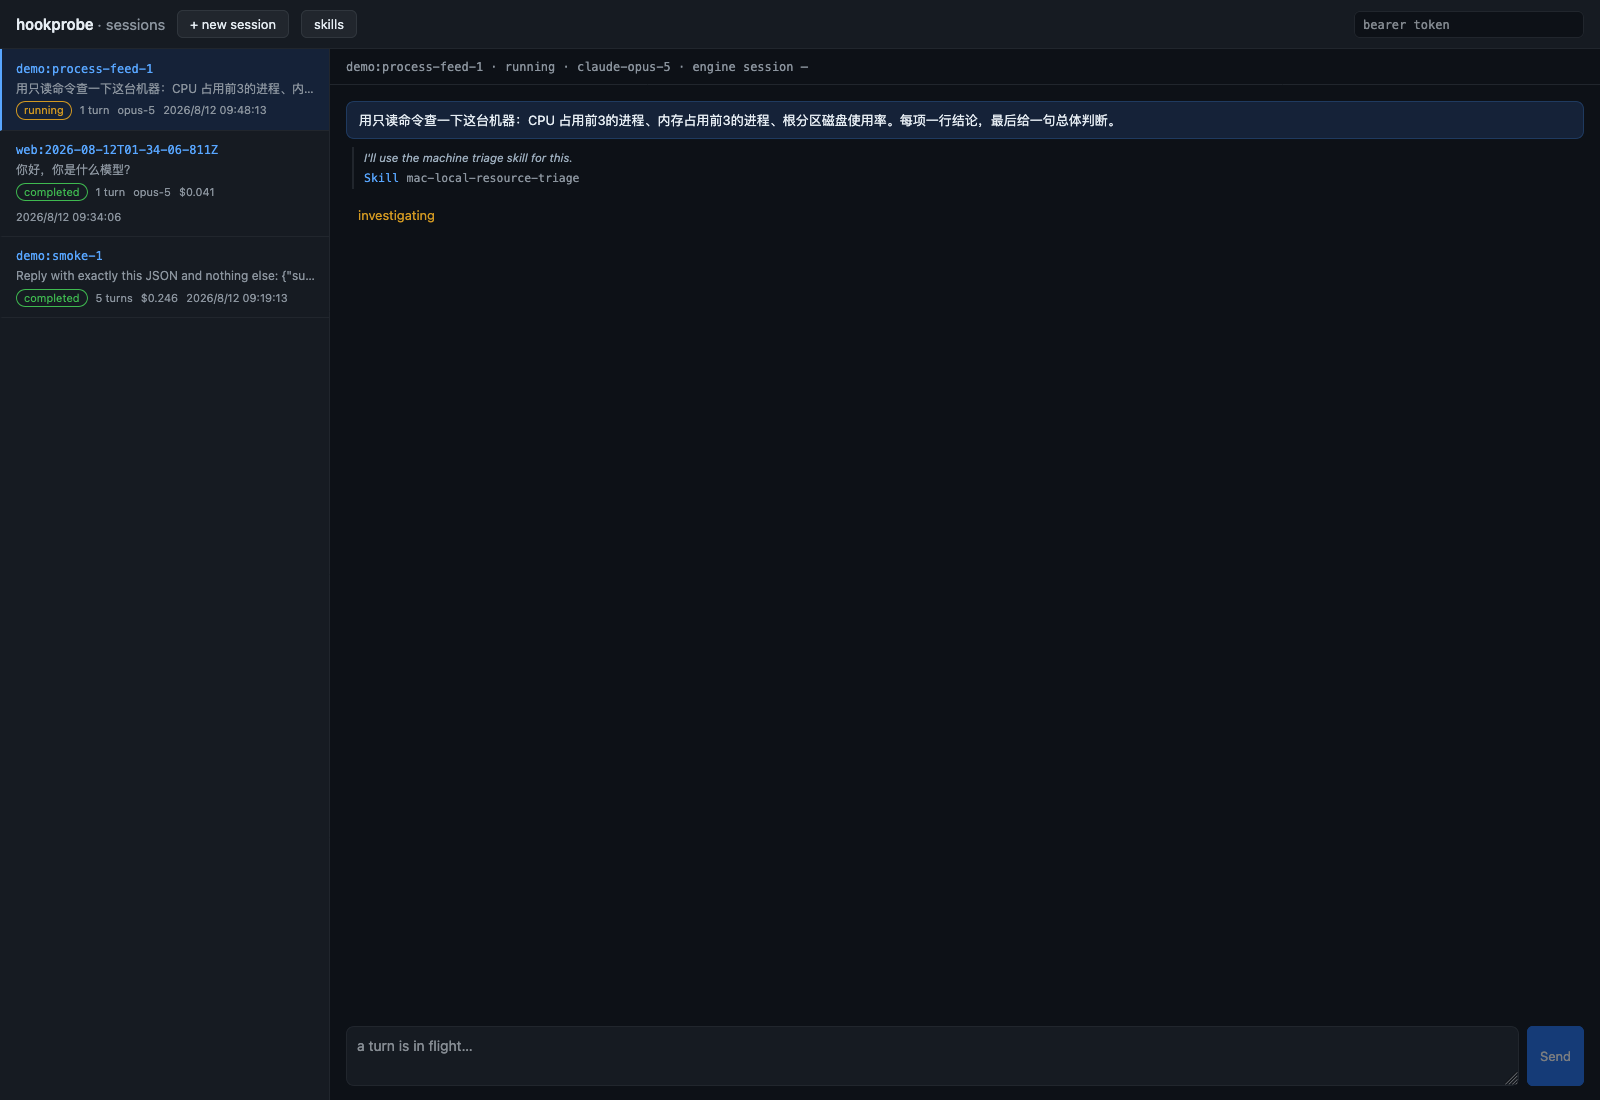
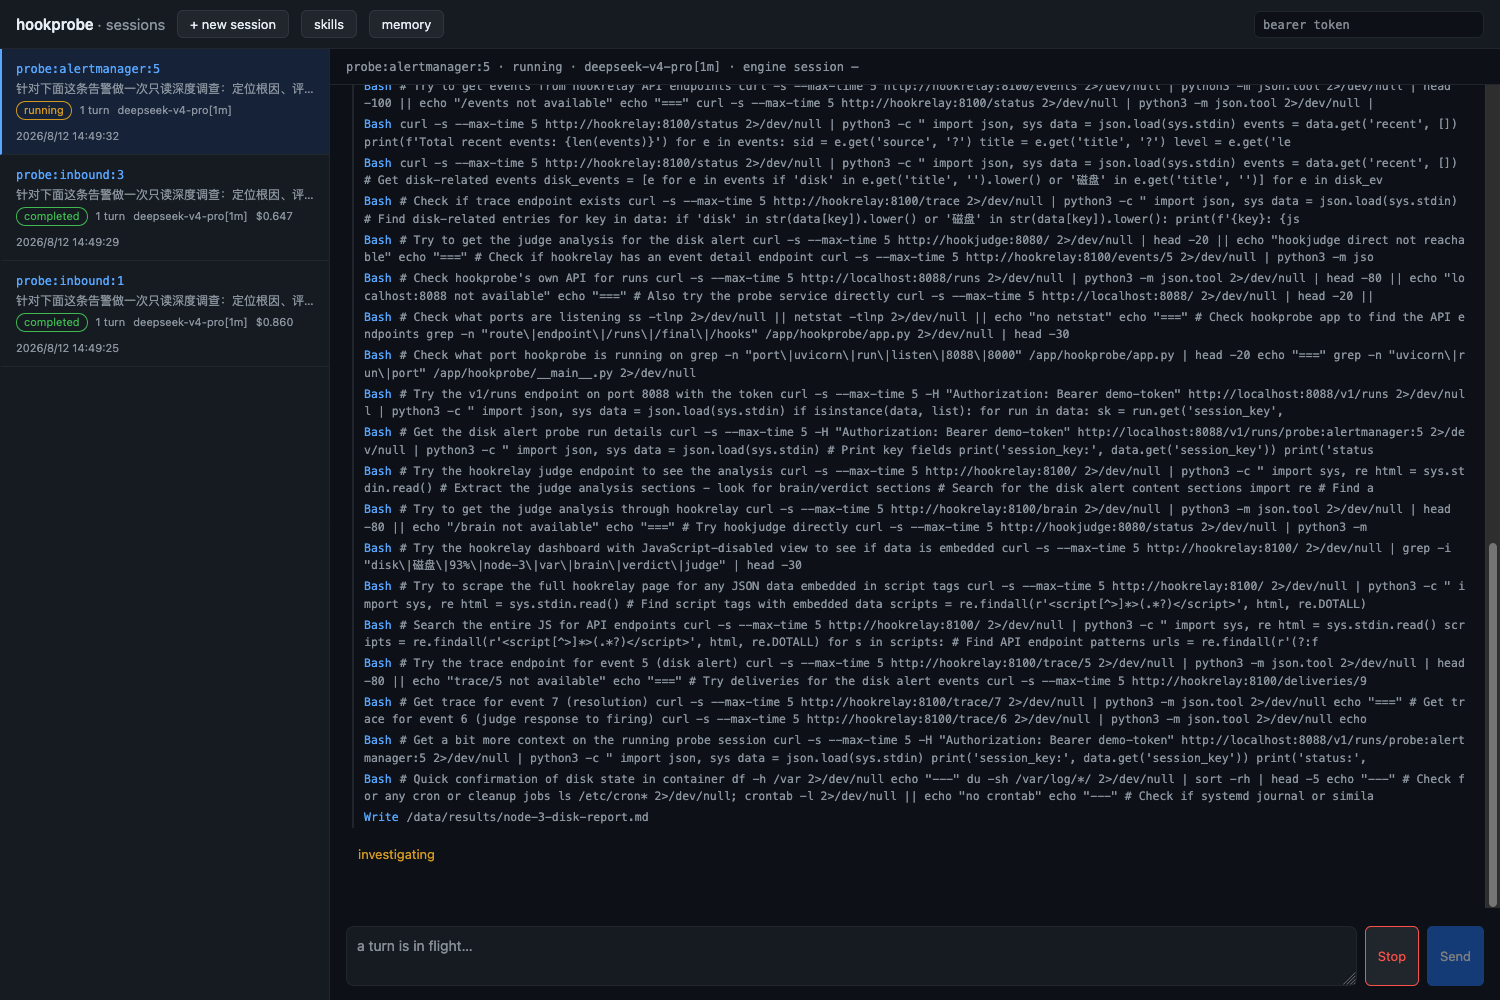
docs: reshoot every screenshot from one clean probe-enabled run
All six images now come from a single docker compose run started from
zero state (down -v first, --profile probe on): four demo alerts in,
four verdicts and three investigation reports back through the same
ledger — 24 deliveries, none queued, none dead. The probe ran against
an Anthropic-dialect endpoint (DeepSeek) to prove the engine is not
provider-locked, so both compose files gain pass-through for the
model-alias env vars; empty defaults keep the hermetic stack hermetic.

README.zh.md retells the probe story with what these captures actually
show: the disk alert overturned as a transient spike found in the
pipe's own trace, a skill distilled by a follow-up turn in the same
session, and the seeded environment memory visibly steering reports.

diff --git a/README.zh.md b/README.zh.md
@@ -2,7 +2,7 @@
 
 一组围绕"告警怎么被处理"生长出来的小服务。家族的分工哲学是一件事一个组件：**hookrelay** 是管道，把各家监控的方言适配进来、把结果按各渠道的格式送出去；**hookjudge** 是判官，一条事件、一个裁决、一笔账；**hookprobe** 是调查员，对值得深挖的告警做一次带工具的只读 agent 调查。三个服务同住本仓库，各自完全独立（自己的包、测试、gate、Dockerfile、CI），拼在一起是一条完整的告警处理流水线。
 
-文中所有截图都来自 2026-08-12 真实运行的服务与真实数据，不是设计稿；管道与判官两张摄自无历史数据的本机 Docker 全新环境，与 [STACK.md](STACK.md) 的验证步骤一一对应。
+文中所有截图摄自同一次 2026-08-12 的本机 Docker 全新运行（`docker compose down -v` 清掉全部历史后带 `--profile probe` 拉起五个容器），不是设计稿：四发演示告警从前门进来，裁决与三份深度调查报告先后落进同一本账。调查员这次跑在 DeepSeek 的 Anthropic 方言端点上——引擎不锁供应商，一个 `ANTHROPIC_BASE_URL` 加几行模型别名映射就够。步骤见 [STACK.md](STACK.md)（那份运行手册记录的是不带调查员的自包含形态，本次运行在其上多开了 `--profile probe`）。
 
 ```
 上游告警源(Grafana / Alertmanager / 云监控 …)
@@ -29,7 +29,7 @@
 
 管道是唯一的告警前门。上游方言在配置里声明式适配：占位符从原始载荷抽取标题、正文、级别，level_map 把 alerting、firing 这类各家用词翻译成统一级别；路由表决定事件去哪——默认一切进大脑，重要事件同时复制一份给调查员，而判官与调查员的回传走更高优先级的路由直达渠道并就此停住，防止结果被再次送去加工。每条消息有交代：排队、送达、死信在账本页一眼可见，每个事件都能点开查看完整的决策链。
 
-下图是在干净的本机 Docker 环境（`docker compose down -v` 后全新拉起）打完四发演示告警后的账本：每个前门事件一次决策同时路由到 to-judge 与 to-probe（升级复制），判官回传的 judge-notify 被路由到 ops-feishu 和 ops-dingtalk 两个渠道——16 次投递全部送达、零排队、零死信。
+下图是打完四发演示告警后的账本，一页看全家族闭环：每个前门事件一次决策同时路由到 to-judge 与 to-probe（#1–#8：四发告警与秒级跟进的四条裁决回传），几分钟后调查员的报告经 probe-notify 回到前门，被打扮成卡片送进 ops-feishu 与 ops-dingtalk（#9–#12）——24 次投递全部送达、零排队、零死信。
 
 ![hookrelay 账本页：每条消息有交代，每次投递有结局](docs/img/hookrelay-ledger.png)
 
@@ -49,15 +49,19 @@
 
 网页操作台 `/ui` 是一个零构建、零外部依赖的单文件页面。左侧是会话列表（状态徽章、模型、轮次、累计费用），右侧逐轮展示对话：JSON 报告自动格式化，Markdown 回答按标题、列表、表格、代码块渲染，超长的告警载荷折叠成一行；每轮下方有账单行——实际运行的模型（含干杂活的辅助模型及其花费）、输入输出 token、缓存读写、费用与耗时。选中已完成的会话，底部输入框就是追问：同一引擎会话续跑，第一轮收集的工具输出、证据、走过的死胡同全部还在。运行中的轮次可以随时 Stop。
 
+下图是磁盘告警调查完成后的会话页：报告按 Markdown 渲染、一句话结论开头，48 步过程折叠在报告上方，账单行写着 deepseek-v4-pro[1m]（辅助模型 deepseek-v4-flash $0.005）· in 50.5k · out 13.3k · cache 1292.2k 读 · $1.24 · 206s。最值得看的是结论本身：agent 翻了管道自己的账本，发现 /var 在告警 3 秒后已自行回落到 41%，于是把这条 high 告警翻案为瞬时峰值而非真实耗尽——那条被级别门挡在调查之外的恢复事件，调查员靠证据自己找了回来。
+
 ![hookprobe sessions 操作台](docs/img/hookprobe-sessions.png)
 
-调查过程全程可见：正在跑的轮次下方实时滚动它的每一步——蓝色是工具调用（带一行摘要），斜体是 agent 在工具之间的自述，计划清单（TodoWrite）渲染成待办列表；跑完后整个过程折叠成 process · N steps，随时点开复盘。下图抓到的是一次调查的开场，也是 skills 闭环的实拍：agent 自己认出了工作目录里沉淀的 runbook，声明要用它，随后逐条执行了 runbook 里的只读命令。调查中验证过的诊断路径会被 agent 沉淀成 SKILL.md，之后的同类告警自动带着这些经验开工——调查员越用越聪明。
+调查过程全程可见：正在跑的轮次下方实时滚动它的每一步——蓝色是工具调用（带一行摘要），斜体是 agent 在工具之间的自述，计划清单（TodoWrite）渲染成待办列表；跑完后整个过程折叠成 process · N steps，随时点开复盘。下图抓的是磁盘调查正跑到一半：Bash 事件一条条滚过，agent 在逐个试探这套环境里真实可达的证据面——管道的状态与决策链端点、判官对这条告警的裁决、容器自身的磁盘状态——最后一行 Write 正在落报告文件；左侧另外两个调查已经带着各自的费用完成。
 
-![实时过程流：agent 主动调用沉淀的 runbook](docs/img/hookprobe-live-feed.png)
+![实时过程流：调查中的每一步工具调用实时滚动](docs/img/hookprobe-live-feed.png)
 
-沉淀下来的东西都能在页面里直接管理。skills 视图列出全部 runbook（frontmatter 描述、包含的文件、修改时间），点开即渲染全文；memory 视图编辑环境记忆（workdir 下的 CLAUDE.md），写进去的集群拓扑、已知误报、命名规范会注入每一次调查。实测把「replayd 高 CPU 是本机慢性顽疾」写入记忆后，问它「replayd CPU 很高要不要当事故处理」，它准确回答不需要，并引用了这条背景——环境记忆真的到达了每一轮调查。
+沉淀下来的东西都能在页面里直接管理。skills 视图列出全部 runbook（frontmatter 描述、包含的文件、修改时间），点开即渲染全文——下图里的 gateway-5xx-triage 就是本次运行的产物：支付网关调查完成后，往同一会话追问一句「把验证过的诊断路径沉淀成 skill」，agent 便把它实际走通的账本、裁决、事件详情查法写成了 SKILL.md，之后的同类告警自动带着这份经验开工——调查员越用越聪明。
 
-![skills 浏览器：沉淀的诊断 runbook](docs/img/hookprobe-skills.png)
+![skills 浏览器：本次运行沉淀的诊断 runbook](docs/img/hookprobe-skills.png)
+
+memory 视图编辑环境记忆（workdir 下的 CLAUDE.md），写进去的集群拓扑、已知误报、命名规范会注入每一次调查。本次运行的记忆里写着「演示告警里的对象是虚构的、容器内不可达，如实说明可达性、基于账本与容器内证据推理，不要编造数据」——翻回上面的调查报告，agent 正是这么做的：结论建立在管道决策链与判官裁决之上，没有编造任何一台登不上去的机器的数据。
 
 ![环境记忆编辑器：CLAUDE.md 注入每一次调查](docs/img/hookprobe-memory.png)
 
@@ -65,7 +69,7 @@
 
 调查员接在家族自己的告警流里：管道的升级路由把每个前门事件复制一份到 `/hooks/event`，是否值得花钱调查由 probe 按级别自决（默认 critical/high，按 source+event_id 幂等——告警风暴只养一次调查）；调查完成后报告回传管道的 `probe-notify` 前门（家族统一的时间戳 HMAC 签名），由管道打扮成卡片送进和裁决相同的渠道。管道保持内容盲，判官一行未动，失败的调查也会以报告形式走完闭环。
 
-默认演示 compose 把升级投递指向 sink 的替身路径 `/probe-standin`——无需模型凭据就能看到升级的形状，冒烟检查会验证每个前门事件都被复制到了替身。`docker compose --profile probe up` 换成真调查员。首次实测闭环：一发「宿主机 CPU 持续高负载」告警，判官一秒内给出裁决，3.7 分钟后调查报告落到同一渠道——判定为误报，且点名了唯一可处置项（一条失控的 log stream 过滤器把 diagnosticd 推高了 0.75 核）。
+默认演示 compose 把升级投递指向 sink 的替身路径 `/probe-standin`——无需模型凭据就能看到升级的形状，冒烟检查会验证每个前门事件都被复制到了替身。`docker compose --profile probe up` 换成真调查员。本文截图的这次运行就是完整闭环：四个前门事件全部复制到了调查员，恢复事件被级别门挡下，其余三条各养出一次调查；判官的裁决秒级回到渠道，三份报告在 2.3 到 5.6 分钟后经 probe-notify 跟进到同一渠道（账本 #9–#11）；支付网关被判 critical 收入受损，磁盘告警则被证据翻案为瞬时峰值。连追问轮也守规矩：沉淀 skill 的那一轮结束后，同样交回了一份报告（账本 #12）。
 
 ## 本地跑起来
 
@@ -79,7 +83,8 @@ bash scripts/stack-smoke.sh       # 或直接跑整套冒烟检查
 ```
 
 ```bash
-# 加入调查员（需要真实模型凭据）
+# 加入调查员（需要真实模型凭据；任意 Anthropic 方言端点亦可：
+# ANTHROPIC_BASE_URL + ANTHROPIC_AUTH_TOKEN，再把模型别名映射到该供应商）
 printf 'ANTHROPIC_API_KEY=sk-ant-...\nHOOKPROBE_EVENT_URL=http://hookprobe:8088/hooks/event\n' >> .env
 docker compose --profile probe up -d --build
 open http://127.0.0.1:8088/ui
@@ -87,4 +92,4 @@ open http://127.0.0.1:8088/ui
 
 ## 现状与下一步
 
-现状：三个服务同仓各自独立，CI 全绿；调查员的每一个能力（合同、续用、过程流、Stop、账单、Markdown、环境记忆、skills 沉淀与浏览、并行子代理、浏览器取证、家族闭环）都经过真实运行验证，本文档的截图即证据。下一步按序推进：给镜像装上告警真实需要的只读 CLI 并搬迁 MCP 配置；部署到生产环境接真实告警流；把升级级别、费用预算按实际噪声水位调准。
+现状：三个服务同仓各自独立，CI 全绿；调查员的每一个能力（合同、续用、过程流、Stop、账单、Markdown、环境记忆、skills 沉淀与浏览、并行子代理、浏览器取证、家族闭环）都经过真实运行验证，本文档的截图即证据；供应商无关也验证过了——同一镜像不改一行代码，换一组环境变量就从 Anthropic 官方端点切到了 DeepSeek 的方言端点。下一步按序推进：给镜像装上告警真实需要的只读 CLI 并搬迁 MCP 配置；部署到生产环境接真实告警流；把升级级别、费用预算按实际噪声水位调准。
